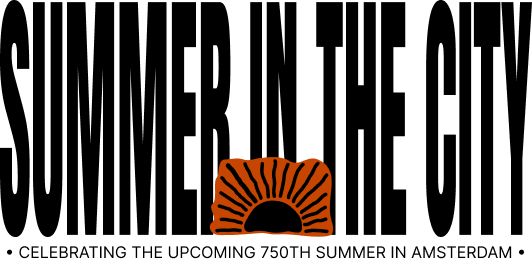
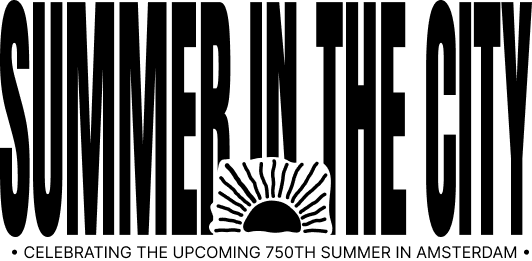
added more glamour

Changed region(s): [[0.0, 0.5824, 1.0, 1.0]]

diff --git a/src/app/globals.css b/src/app/globals.css
@@ -7,8 +7,14 @@ main {
   background-color: #c64500;
 }
 
+footer {
+  width: fit-content;
+  position: absolute;
+  bottom: 0;
+  padding: 8px 64px;
+}
+
 .summer {
-  background-color: #c64500;
   position: fixed;
   z-index: 1000;
   margin: 32px;
@@ -26,5 +32,12 @@ main {
 
   .summer img {
     width: 240px;
+  }
+
+  footer {
+    width: fit-content;
+    position: sticky;
+    bottom: 0;
+    padding: 15px 26%;
   }
 }

diff --git a/src/app/page.js b/src/app/page.js
@@ -100,6 +100,7 @@ export default function Index() {
           );
         })}
       </div>
+      <footer>Boris Kirov & Nuno Cruz</footer>
     </main>
   );
 }
